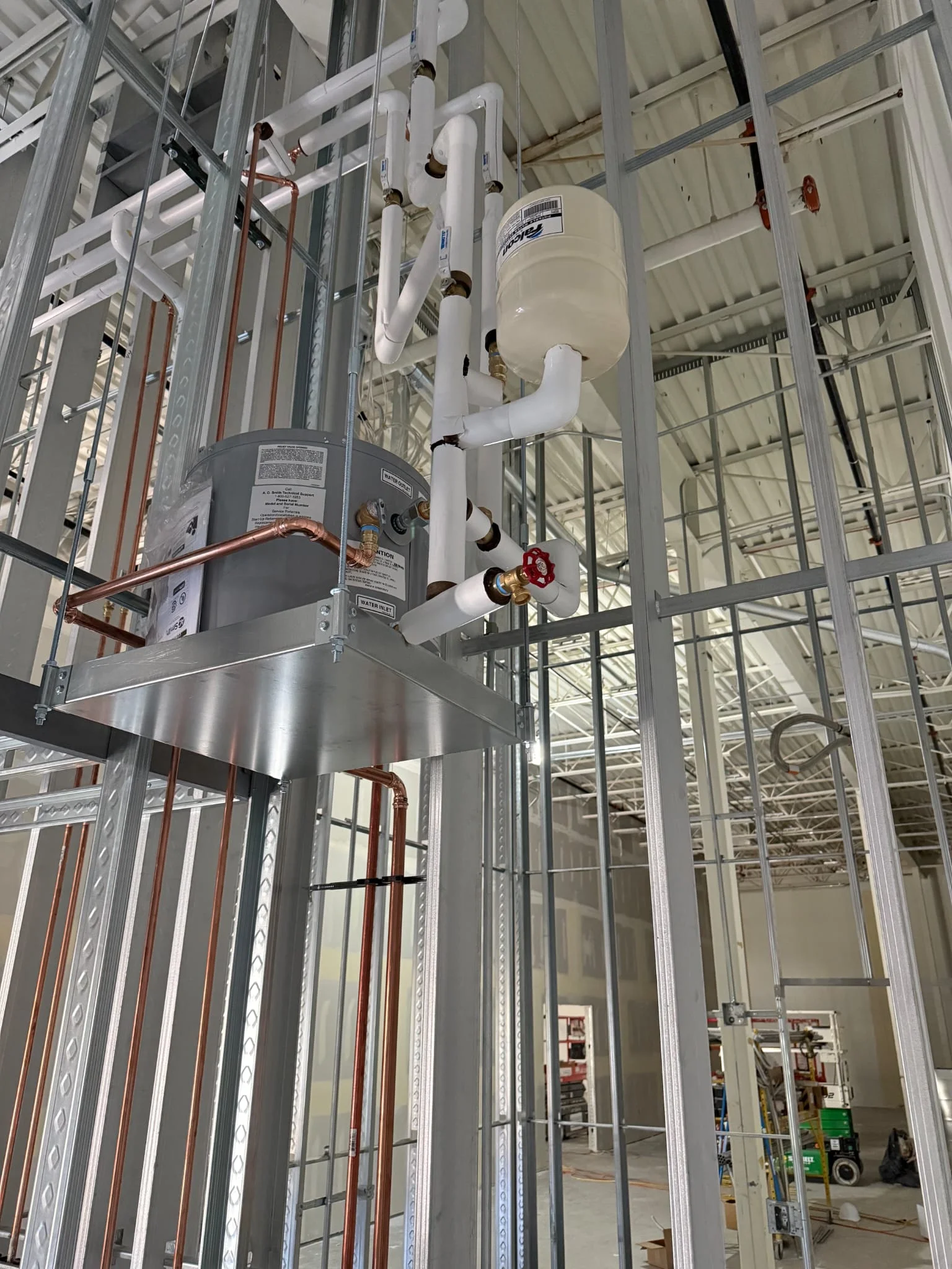
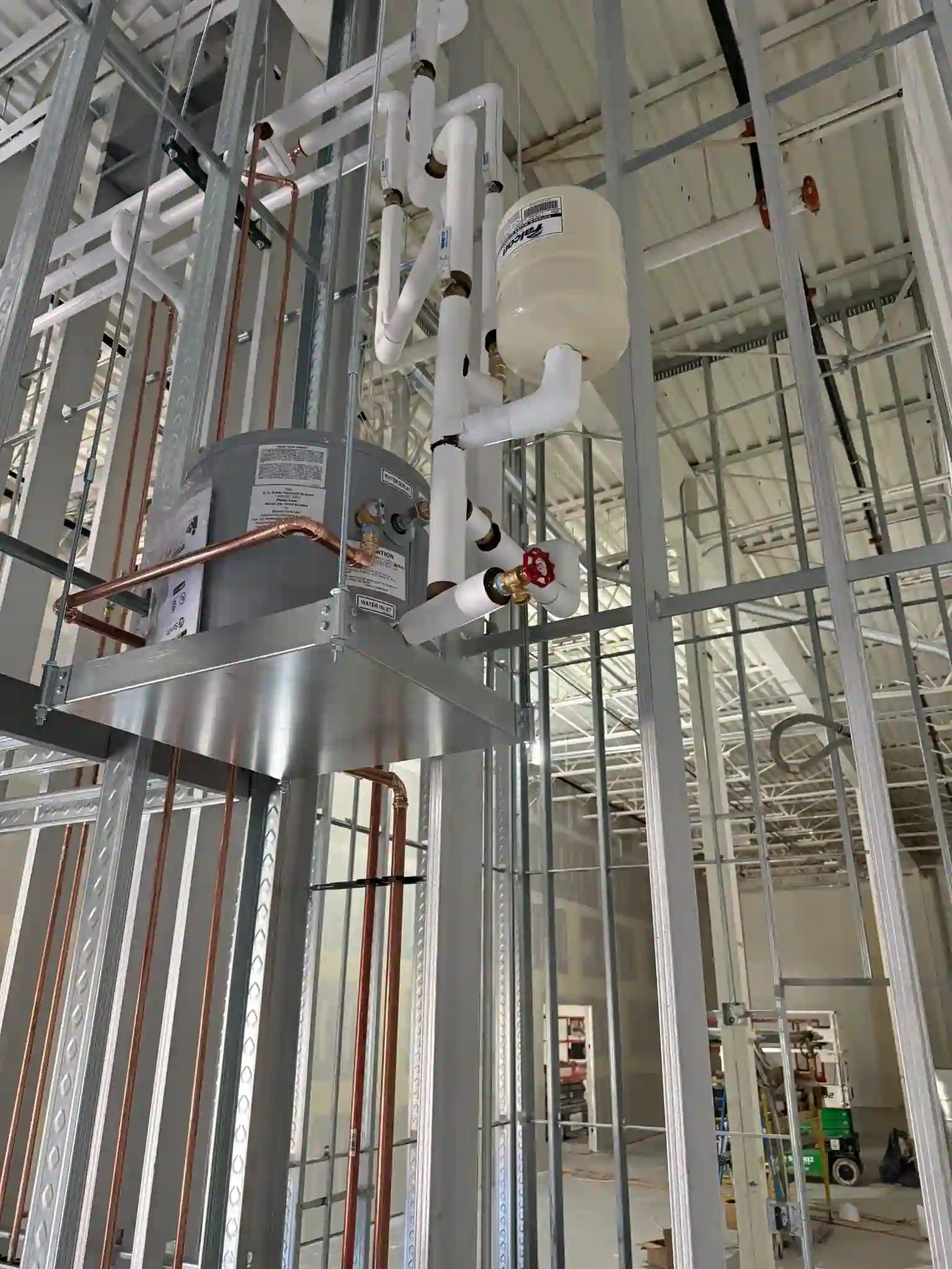
fix: png to webp

diff --git a/src/features/AboutUs/components/AboutUsMain/AboutUsMain.tsx b/src/features/AboutUs/components/AboutUsMain/AboutUsMain.tsx
@@ -40,7 +40,8 @@ export const AboutUsMain = () => {
                 {/* ── LEFT: texto ── */}
                 <div className={`${styles.textCol} ${visible ? styles.textVisible : ""}`}>
                     <h1 className={styles.title}>
-                        Reliable Plumbing<br className="hidden md:inline" />You Can Trust
+                        <span className="block md:inline">Reliable Plumbing</span>
+                        <span className="block md:inline">You Can Trust</span>
                     </h1>
                     <p className={styles.body}>
                         We're more than a plumbing company—we're your trusted partner in

diff --git a/src/features/home/components/BlogsSection/BlogSection.tsx b/src/features/home/components/BlogsSection/BlogSection.tsx
@@ -18,7 +18,7 @@ const BlogSection = () => {
         <section className={styles.section} data-header-theme="dark">
             {/* Decorative vector — right side */}
             <div className={styles.vectorRight} aria-hidden>
-                <Image src="/images/vector-right.png" alt="" width={0} height={0} sizes="100vw" className={styles.vectorImg} aria-hidden />
+                <Image src="/images/vector-right.webp" alt="" width={0} height={0} sizes="100vw" className={styles.vectorImg} aria-hidden />
             </div>
 
             <div className={styles.container}>

diff --git a/src/features/home/components/OurServices/OurServices.tsx b/src/features/home/components/OurServices/OurServices.tsx
@@ -145,7 +145,7 @@ export default function OurServices() {
     return (
         <section className={styles.section} data-header-theme="dark">
             <div className={styles.vectorBg}>
-                <Image src="/images/vector.png" alt="" width={0} height={0} sizes="100vw" className={styles.vectorImg} aria-hidden />
+                <Image src="/images/vector.webp" alt="" width={0} height={0} sizes="100vw" className={styles.vectorImg} aria-hidden />
             </div>
 
             <div className={styles.container}>

diff --git a/src/features/AboutUs/components/CoreValues/CoreValues.tsx b/src/features/AboutUs/components/CoreValues/CoreValues.tsx
@@ -68,7 +68,7 @@ export const CoreValues = () => {
         <section ref={sectionRef} className={styles.section} data-header-theme="dark">
 
             <div className={styles.vectorBg}>
-                <Image src="/images/vector-alt.png" alt="" fill className={styles.vectorImg} />
+                <Image src="/images/vector-alt.webp" alt="" fill className={styles.vectorImg} />
             </div>
 
             <div className={styles.container}>
